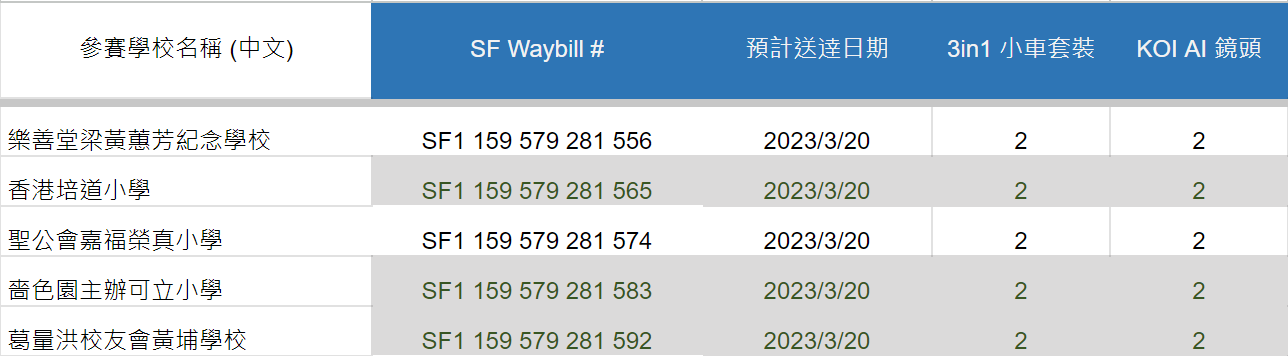
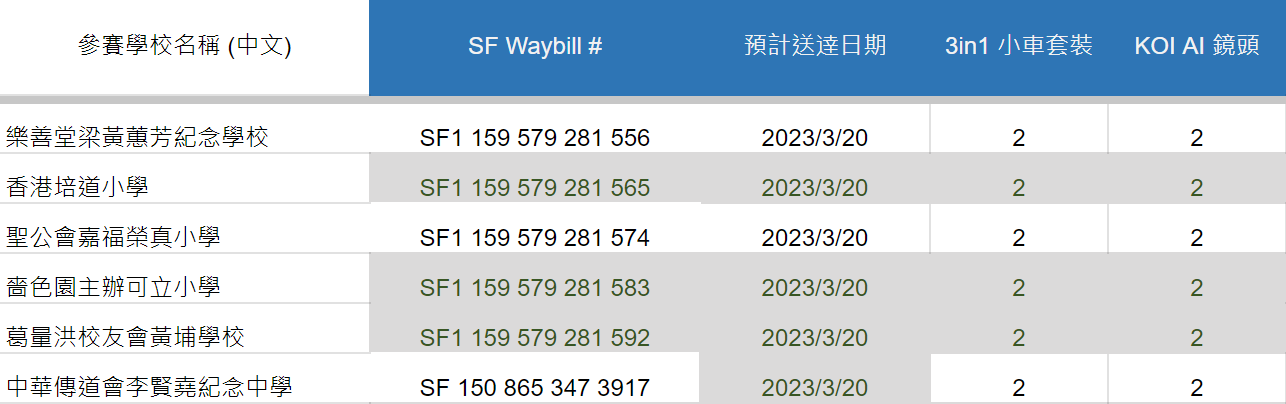
new sf record

diff --git a/eitp2023/equipmentlist.md b/eitp2023/equipmentlist.md
@@ -1,4 +1,4 @@
-# 借用器材清單 (16/3/2023更新)
+# 借用器材清單 (17/3/2023更新)
 
 ### 🛠 借用器材資訊 
 
